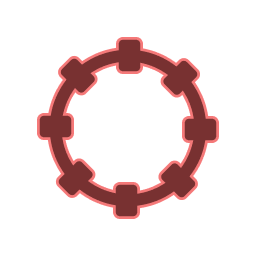
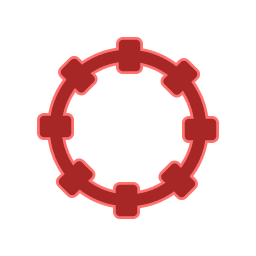
gobring config

Changed region(s): [[0.1562, 0.1562, 0.8438, 0.8438]]

diff --git a/src/nurgling/NMapView.java b/src/nurgling/NMapView.java
@@ -766,6 +766,23 @@ public class NMapView extends MapView
             getGob(ev.c);
             return false;
         }
+        
+        // Ctrl+MMB to toggle ring setting for clicked object
+        if (ev.b == 2 && ui.modctrl) { // Middle mouse button + Ctrl
+            new Click(ev.c, ev.b) {
+                @Override
+                protected void hit(Coord pc, Coord2d mc, ClickData inf) {
+                    if (inf != null && inf.ci instanceof Gob.GobClick) {
+                        Gob clickedGob = ((Gob.GobClick) inf.ci).gob;
+                        if (clickedGob != null) {
+                            toggleRingForGob(clickedGob);
+                        }
+                    }
+                }
+            }.run();
+            return true;
+        }
+        
         return super.mousedown(ev);
     }
 
@@ -1388,6 +1405,78 @@ public class NMapView extends MapView
             }
             markerLineOverlay.setTarget(targetPos);
         }
+    }
+
+    /**
+     * Toggles ring display setting for a clicked gob's icon
+     * Updates all gobs with the same icon
+     */
+    private void toggleRingForGob(Gob clickedGob) {
+        if (clickedGob == null) return;
+        
+        // Get the gob's icon attribute
+        GobIcon icon = clickedGob.getattr(GobIcon.class);
+        if (icon == null) return;
+        
+        // Get the settings configuration
+        NGameUI gui = NUtils.getGameUI();
+        if (gui == null || gui.iconconf == null || gui.iconRingConfig == null) return;
+        
+        // Get icon instance and create setting ID
+        GobIcon.Icon iconInstance = icon.icon();
+        GobIcon.Setting.ID settingId = new GobIcon.Setting.ID(iconInstance.res.name, iconInstance.id());
+        
+        // Get setting using the proper get() method that handles creation
+        GobIcon.Setting setting = gui.iconconf.get(iconInstance);
+        if (setting == null) return;
+        
+        // Toggle the ring value
+        setting.ring = !setting.ring;
+        
+        // Save to local config
+        String iconResName = iconInstance.res.name;
+        gui.iconRingConfig.setRing(iconResName, setting.ring);
+        
+        // Update all gobs with this icon setting (add or remove rings)
+        try {
+            synchronized(ui.sess.glob.oc) {
+                for(Gob gob : ui.sess.glob.oc) {
+                    GobIcon gobIcon = gob.getattr(GobIcon.class);
+                    if(gobIcon != null) {
+                        try {
+                            // Create ID for this gob's icon to compare
+                            GobIcon.Icon gobIconInstance = gobIcon.icon();
+                            GobIcon.Setting.ID gobSettingId = new GobIcon.Setting.ID(gobIconInstance.res.name, gobIconInstance.id());
+                            
+                            // Compare by ID instead of object reference
+                            if(gobSettingId.equals(settingId)) {
+                                // Remove existing ring
+                                Gob.Overlay existingRing = gob.findol(NGobIconRing.class);
+                                if(existingRing != null) {
+                                    existingRing.remove();
+                                }
+                                
+                                // Add new ring if enabled
+                                if(setting.ring) {
+                                    NGobIconRing ring = NGobIconRing.createAutoSize(gob);
+                                    if(ring != null) {
+                                        gob.addcustomol(ring);
+                                    }
+                                }
+                            }
+                        } catch (Exception e) {
+                            // Skip this gob if there's an error
+                        }
+                    }
+                }
+            }
+        } catch (Exception e) {
+            // Ignore errors during ring update
+        }
+        
+        // Show feedback message
+        String iconName = icon.icon().name();
+        gui.msg("Ring " + (setting.ring ? "enabled" : "disabled") + " for " + iconName);
     }
 
 }

diff --git a/src/nurgling/conf/IconRingConfig.java b/src/nurgling/conf/IconRingConfig.java
@@ -1,0 +1,90 @@
+package nurgling.conf;
+
+import org.json.JSONObject;
+
+import java.io.IOException;
+import java.nio.file.Files;
+import java.nio.file.Path;
+import java.nio.file.Paths;
+import java.util.HashMap;
+import java.util.Map;
+
+/**
+ * Stores ring settings for GobIcons locally in AppData
+ */
+public class IconRingConfig {
+    private final Path configFile;
+    private Map<String, Boolean> ringSettings = new HashMap<>();
+    
+    public IconRingConfig(String genus) {
+        // Save to %APPDATA%\Haven and Hearth\data\{genus}\nurgling-icon-rings.json
+        String appdata = System.getenv("APPDATA");
+        if (appdata == null) {
+            appdata = System.getProperty("user.home");
+        }
+        
+        this.configFile = Paths.get(appdata, "Haven and Hearth", "data", genus, "nurgling-icon-rings.json");
+        load();
+    }
+    
+    /**
+     * Load ring settings from local file
+     */
+    private void load() {
+        try {
+            if (Files.exists(configFile)) {
+                String content = new String(Files.readAllBytes(configFile));
+                JSONObject json = new JSONObject(content);
+                
+                for (String key : json.keySet()) {
+                    ringSettings.put(key, json.getBoolean(key));
+                }
+            }
+        } catch (Exception e) {
+            e.printStackTrace();
+        }
+    }
+    
+    /**
+     * Save ring settings to local file
+     */
+    public void save() {
+        try {
+            // Create directory if needed
+            Files.createDirectories(configFile.getParent());
+            
+            // Build JSON
+            JSONObject json = new JSONObject();
+            for (Map.Entry<String, Boolean> entry : ringSettings.entrySet()) {
+                json.put(entry.getKey(), entry.getValue());
+            }
+            
+            // Write to file
+            Files.write(configFile, json.toString(2).getBytes());
+        } catch (IOException e) {
+            e.printStackTrace();
+        }
+    }
+    
+    /**
+     * Get ring setting for icon resource name
+     */
+    public boolean getRing(String iconResName) {
+        return ringSettings.getOrDefault(iconResName, false);
+    }
+    
+    /**
+     * Set ring setting for icon resource name
+     */
+    public void setRing(String iconResName, boolean enabled) {
+        ringSettings.put(iconResName, enabled);
+        save();
+    }
+    
+    /**
+     * Get all ring settings
+     */
+    public Map<String, Boolean> getAllSettings() {
+        return new HashMap<>(ringSettings);
+    }
+}

diff --git a/src/nurgling/NGameUI.java b/src/nurgling/NGameUI.java
@@ -61,9 +61,17 @@ public class NGameUI extends GameUI
     public final Map<String, TreeLocationDetailsWindow> openTreeDetailWindows = new HashMap<>();
     public StudyDeskPlannerWidget studyDeskPlanner = null;
     public NDraggableWidget studyReportWidget = null;
+    
+    // Local storage for ring settings
+    public IconRingConfig iconRingConfig;
+    private boolean ringSettingsApplied = false;
+    
     public NGameUI(String chrid, long plid, String genus, NUI nui)
     {
         super(chrid, plid, genus, nui);
+        
+        // Initialize local ring config
+        iconRingConfig = new IconRingConfig(genus);
 
         // Replace Cal with NCal to keep calendar customizations in nurgling package
         Widget oldCalendarWidget = null;
@@ -117,6 +125,34 @@ public class NGameUI extends GameUI
         waypointMovementService = new WaypointMovementService(this);
         fishLocationService = new FishLocationService(this);
         treeLocationService = new TreeLocationService(this);
+    }
+    
+    @Override
+    protected void attached() {
+        super.attached();
+        // Apply local ring settings to iconconf after it's loaded (only once)
+        if (!ringSettingsApplied) {
+            applyLocalRingSettings();
+            ringSettingsApplied = true;
+        }
+    }
+    
+    private void applyLocalRingSettings() {
+        if (iconRingConfig == null || iconconf == null) {
+            return;
+        }
+        
+        for (Map.Entry<String, Boolean> entry : iconRingConfig.getAllSettings().entrySet()) {
+            String iconResName = entry.getKey();
+            boolean ringEnabled = entry.getValue();
+            
+            // Find matching settings in iconconf
+            for (GobIcon.Setting setting : iconconf.settings.values()) {
+                if (setting.res != null && setting.res.name.equals(iconResName)) {
+                    setting.ring = ringEnabled;
+                }
+            }
+        }
     }
 
     private void initializeInventoryVisibility() {

diff --git a/src/nurgling/overlays/NGobIconRing.java b/src/nurgling/overlays/NGobIconRing.java
@@ -101,20 +101,47 @@ public class NGobIconRing extends Sprite implements RenderTree.Node
      * Helper method to check if a gob should have a ring based on icon settings
      */
     public static boolean shouldShowRing(Gob gob) {
-        if (NUtils.getGameUI() == null)
+        if (NUtils.getGameUI() == null) {
             return false;
+        }
 
         GobIcon icon = gob.getattr(GobIcon.class);
-        if (icon == null || icon.icon() == null)
+        if (icon == null || icon.icon() == null) {
             return false;
+        }
 
         try {
-            GobIcon.Settings settings = NUtils.getGameUI().iconconf;
-            if (settings == null)
+            nurgling.NGameUI gui = NUtils.getGameUI();
+            GobIcon.Settings settings = gui.iconconf;
+            if (settings == null) {
                 return false;
+            }
 
             GobIcon.Setting setting = settings.get(icon.icon());
-            return setting != null && setting.ring;
+            if (setting == null) {
+                return false;
+            }
+            
+            // Check setting.ring first
+            if (setting.ring) {
+                return true;
+            }
+            
+            // If setting.ring is false, check local config as fallback
+            // This handles the case where settings haven't been applied yet
+            if (gui.iconRingConfig != null) {
+                String iconResName = icon.icon().res.name;
+                boolean localRing = gui.iconRingConfig.getRing(iconResName);
+                
+                // Apply local setting to iconconf for next time
+                if (localRing && !setting.ring) {
+                    setting.ring = true;
+                }
+                
+                return localRing;
+            }
+            
+            return false;
         } catch (Exception e) {
             return false;
         }

diff --git a/src/haven/GobIcon.java b/src/haven/GobIcon.java
@@ -643,11 +643,19 @@ public class GobIcon extends GAttrib {
 	}
 
 	public void save() {
-	    if(ResCache.global == null)
+	    System.out.println("Debug GobIcon.Settings.save(): ResCache.global = " + ResCache.global);
+	    if(ResCache.global == null) {
+		System.out.println("Debug GobIcon.Settings.save(): ResCache.global is NULL, not saving!");
 		return;
+	    }
+	    System.out.println("Debug GobIcon.Settings.save(): Saving to filename: " + filename);
+	    System.out.println("Debug GobIcon.Settings.save(): Number of settings: " + settings.size());
 	    try(StreamMessage fp = new StreamMessage(ResCache.global.store(filename))) {
 		save(fp);
+		System.out.println("Debug GobIcon.Settings.save(): Save completed successfully");
 	    } catch(Exception e) {
+		System.out.println("Debug GobIcon.Settings.save(): Save failed with exception: " + e.getMessage());
+		e.printStackTrace();
 		new Warning(e, "failed to store icon-conf").issue();
 	    }
 	}

diff --git a/src/haven/MapView.java b/src/haven/MapView.java
@@ -2033,10 +2033,10 @@ public class MapView extends PView implements DTarget, Console.Directory {
 	protected void nohit(Coord pc) {}
     }
 
-    private class Click extends Hittest {
+    protected class Click extends Hittest {
 	int clickb;
 	
-	private Click(Coord c, int b) {
+	protected Click(Coord c, int b) {
 	    super(c);
 	    clickb = b;
 	}
